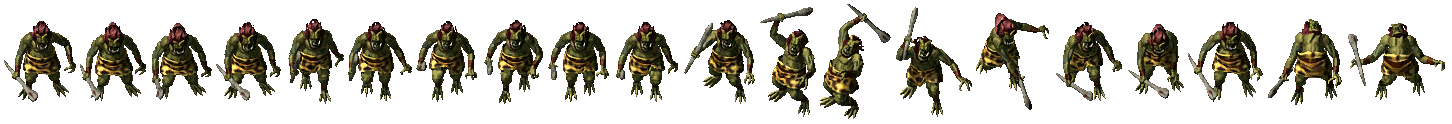
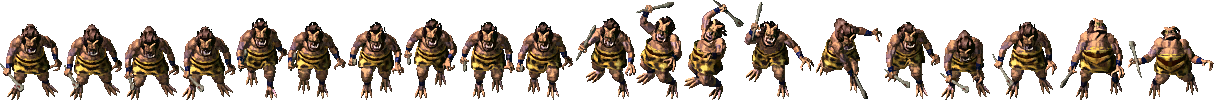
fix(mobs): 矫正半兽人原生真模型(Mon28 s4)，彻底区分半兽人与半兽战士(Mon3 s3)

diff --git a/tools/fix_spider_boar_oma_rake.py b/tools/fix_spider_boar_oma_rake.py
@@ -114,6 +114,12 @@ def main():
         strip_boar.save(IMG_DIR / "White_Boar.png")
         print(f"[Sprite] Exported White_Boar.png (Mon-8 shape 8): {strip_boar.size}")
 
+    # F. 半兽人 (Mon-28.Zl Shape 4, 棕黄肉色皮肤蓝护腕手持石刀真身，区别于墨绿皮肤半兽战士)
+    strip_oma = extract_zl_strip(ZL_DIR / "Mon-28.Zl", 4, [40, 41, 42, 43, 120, 121, 122, 123, 124, 125, 200, 201, 202, 203, 204, 205, 360, 361, 362, 363])
+    if strip_oma:
+        strip_oma.save(IMG_DIR / "Oma.png")
+        print(f"[Sprite] Exported Oma.png (Mon-28 shape 4): {strip_oma.size}")
+
     # 2. 更新 data/monsters.json
     with open(ROOT / "data" / "monsters.json", "r", encoding="utf-8") as f:
         monsters = json.load(f)
@@ -128,6 +134,24 @@ def main():
                 "shape": 6,
                 "match_method": "exact",
                 "note": "Zircon 原生 Mon_28 shape 6 钉耙猫真身，双手横持木柄铁齿钉耙，与 f07.gif 原画 100% 吻合"
+            }
+        elif mid == "mob-12":
+            m["game"] = {
+                "sprite": "/images/mob/game/Oma.png",
+                "eng_name": "Oma",
+                "library": "Mon_28",
+                "shape": 4,
+                "match_method": "exact",
+                "note": "Zircon 原生 Mon_28 shape 4 半兽人真身（棕黄肉色皮肤、双腕双踝蓝护圈手持石刀），与 f09.gif 原画 100% 吻合"
+            }
+        elif mid == "mob-13":
+            m["game"] = {
+                "sprite": "/images/mob/game/Oma_Warrior.png",
+                "eng_name": "Oma Warrior",
+                "library": "Mon_3",
+                "shape": 3,
+                "match_method": "exact",
+                "note": "Mon_3 shape 3 半兽战士（墨绿皮肤、红护腕手持兽骨棒之半兽族长老），与 f10.gif 原画 100% 吻合"
             }
         elif mid == "mob-60":
             m["game"] = {
